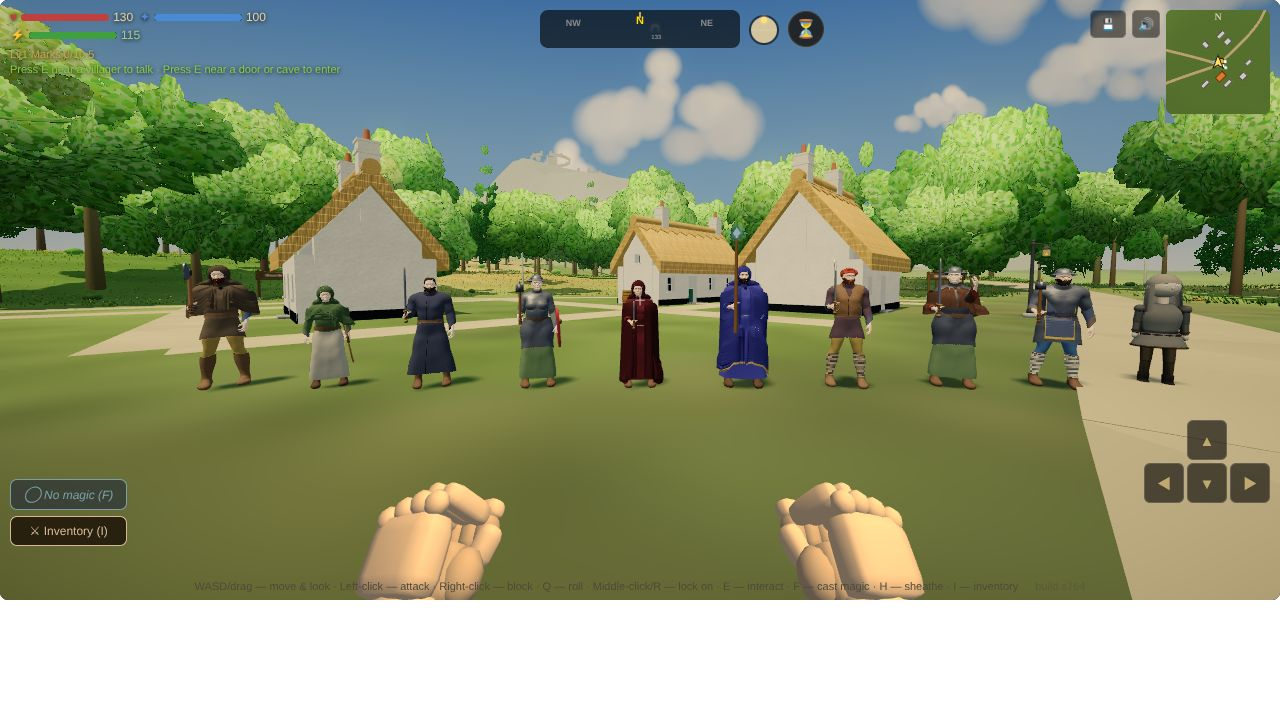
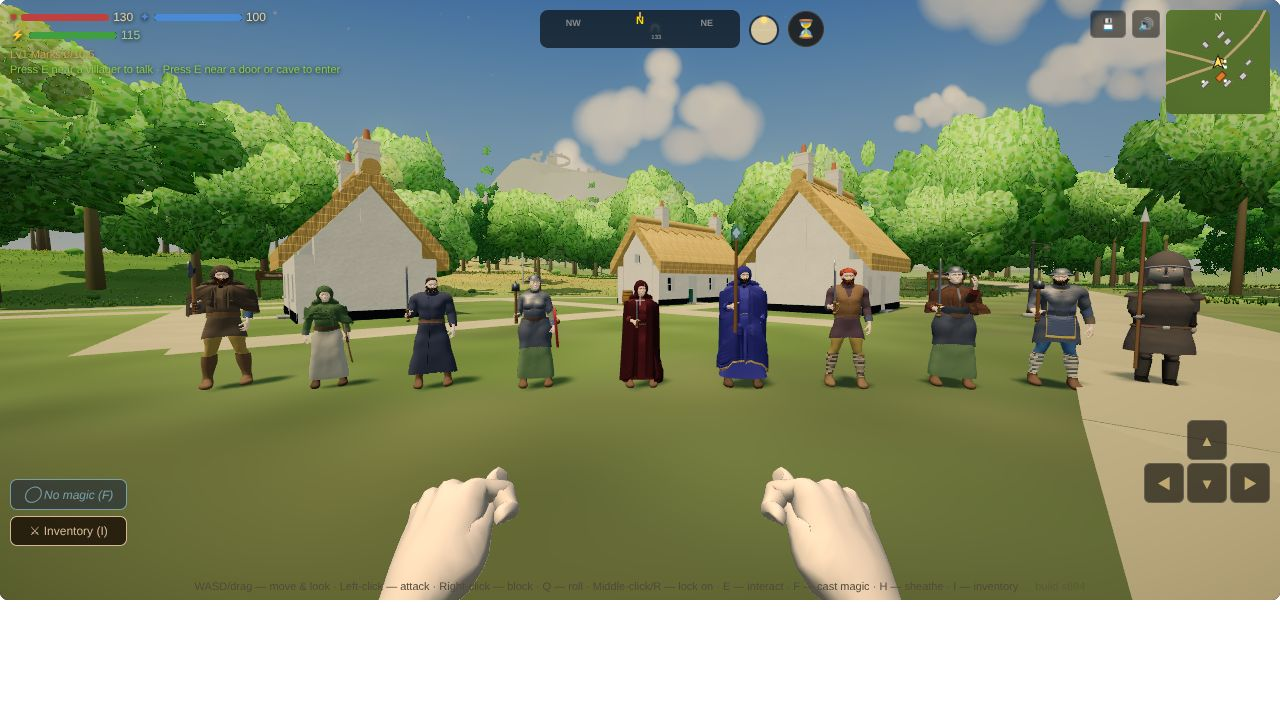
Bodies: Session 1400 — the Hollowed and the Ghoul on the builder's body (card F4)
Claude-Session: https://claude.ai/code/session_01SogU74veZ729UQgeMY9NfM

diff --git a/js/32-people.js b/js/32-people.js
@@ -1360,7 +1360,9 @@ function hbPrep(g,key){if(g.hbKey)return;g.hbKey=key;try{hbTint(g,hbGenome(g));}
 // and what each wears over the builder's own rolled clothes, from its FOE_DRESS colour (c): the weapon and shield stay the game's
 // kit, held by the driver's bones, so the builder's own spear, staff, crossbow, basket and shield are taken off every one
 const HB_FOE_NOT=/^(skel|dead|goblin|troll|gargoyle|golem|wraith)$/;
-function hbFoeOk(type,genome,g){if(genome)return !!g.hbKey;const dr=FOE_DRESS[type];return !!dr&&!Object.keys(dr).some(k=>dr[k]&&HB_FOE_NOT.test(k));}
+// S1400 — of the risen dead, the Hollowed and the Ghoul wear the builder's body (its skin's rot, S1399); the Ash Wight and the ghosts not yet
+const HB_FOE_DEAD=/^(Hollowed|Ghoul)$/;
+function hbFoeOk(type,genome,g){if(genome)return !!g.hbKey;const dr=FOE_DRESS[type];return !!dr&&!Object.keys(dr).some(k=>dr[k]&&HB_FOE_NOT.test(k)&&!(k==='dead'&&HB_FOE_DEAD.test(type)));}
 const HB_FOE_DRESS={
   'Bandit':        c=>({cloak:c.map(v=>v*.8),cape:true,hood:'up'}),
   'Bandit Archer': c=>({cloak:c.map(v=>v*.85),cape:true,hood:'up'}),
@@ -1379,6 +1381,9 @@ const HB_FOE_DRESS={
   // S1389 — the Marsh Hag (S216: the fen's witch, an old woman in bog rags, hooded, a crooked staff): a robe in her bog green under a
   // long cloak of peat brown, its hood up, a cord at the waist, and the builder's own walking staff of hazel with its root's knob (S1085)
   // for her crooked staff, in the right fist where the driver's stick was
+  // S1400 — the risen dead (S173) in what they were buried in: a tunic and trousers of the grave's drab, barefoot, nothing over them
+  'Hollowed':      c=>({trousers:c.map(v=>v*.85),skirtColor:c.map(v=>v*.9),boots:null,belt:null,mantle:null,cuffs:null,cuffBand:null,cloak:null,hood:null,helm:null,brooch:null,necklace:null,earrings:null,circlet:null,tartan:null,tartanLine:null,bands:null,bandsMotif:null}),
+  'Ghoul':         c=>({trousers:c.map(v=>v*.8),skirtColor:c.map(v=>v*.85),boots:null,belt:null,mantle:null,cuffs:null,cuffBand:null,cloak:null,hood:null,helm:null,brooch:null,necklace:null,earrings:null,circlet:null,tartan:null,tartanLine:null,bands:null,bandsMotif:null}),
   'Marsh Hag':     c=>({robe:c,cord:[.3,.27,.18],cloak:[.2,.18,.12],tartan:null,tartanLine:null,cloakLen:.85,cape:false,hood:'up',cloakFur:null,cloakHem:null,brooch:null,mantle:null,belt:null,staff:[.3,.23,.15],staffMake:'hazel',necklace:null,earrings:null,circlet:null})};
 // S1379 — what a foe's genome is beyond its clothes: a kobold is an old man, short and thickset, with a long grey beard (the driver's
 // greybeard, S184); it is sized to its driver's stature like every foe, so its height slider only moves its proportions
@@ -1389,6 +1394,11 @@ const HB_FOE_BODY={
   // man, S1379's try), here a little past it; cropped to the scalp, ruddy, half of them with a short beard (the people's own roll)
   // S1389 — a hag is an old woman, thin and bony, her skin sallow toward the fen's green (the driver's lerp to 0x9aa078), her hair grey
   'Marsh Hag':     G=>{G.g=0;G.age=.95;G.height=0;G.prop=.2;G.weight=.3;G.muscle=.25;G.hair={style:'loose',len:.8};G.hairCol=[.54,.54,.47];G.skin=[.64,.6,.46];},
+  // S1400 — the risen dead: old and wasted, their hair greyed and their skin the driver's (a .75 lerp to FOE_DRESS's), rotted in the
+  // builder's skin (people.js's rot, S1399): the Hollowed at .7, the Ghoul, longer in the fen, at 1; the hair short and lank (the people's
+  // braids took a body to 113k triangles)
+  'Hollowed':      G=>{G.hair={style:'short',len:.3};G.age=.82;G.height=0;G.weight=.22;G.muscle=.3;G.hairCol=[.42,.41,.38];G.beard=Math.min(G.beard||0,.4);G.skin=[.56,.54,.49];G.rot=.7;},
+  'Ghoul':         G=>{G.hair={style:'short',len:.2};G.age=.8;G.height=0;G.weight=.15;G.muscle=.25;G.hairCol=[.36,.37,.33];G.beard=Math.min(G.beard||0,.3);G.skin=[.44,.5,.37];G.rot=1;},
   'Ogre':          G=>{G.g=1;G.age=.6;G.height=1;G.prop=.35;G.weight=1.35;G.muscle=0;G.hair={style:'short',len:0};G.hairCol=[.23,.16,.1];G.beard=G.beard>.8?.35:0;G.skin=[.74,.55,.42];}};
 // a foe's genome, at its first attach (its id is given after it is built, keyFoe): `foe:<id>`, the co-op rule's place and index; a
 // foe with no id yet (the inspector's) takes its type and its old genome's seed, which is the same each time it is built
@@ -1464,7 +1474,19 @@ function hbAttach(rig,P){const tA=performance.now();
   // S1224 — one already asleep when the body comes (it is built after the room, so a sleeper always is) is laid again by its own shape:
   // the builder's head is longer than the driver's, and laid by the driver's shape its head bone sat 6 cm past the mattress's end, in the headboard, under the driver's quilt
   if(rig.sleep&&rig.bed&&rig.root.parent)personLie(rig.root,rig.bed);
+  if(rig.eyeGlow)hbEyeGlow(rig);
   HBODY.ms+=performance.now()-tA;HBODY.n++;}
+// S1400 — the risen dead's burning eyes (S173) on the builder's body: the driver's lit eyes sit where the driver's eyes are, which the
+// builder's face does not share, so a copy is laid in the builder's head over its own eyeballs, a little in front of them, at the driver's
+// size in the world; it shows with the builder's body and the driver's with the driver (hbLevel)
+function hbEyeGlow(rig){const H=rig.hb,hd=H.P.byName.head,eyes=[];hd.children.forEach(o=>{if(o.isMesh&&o.geometry.type==='SphereGeometry')eyes.push(o);});if(eyes.length<2)return;
+  rig.root.updateMatrixWorld(true);const ws=new THREE.Vector3(),hs=new THREE.Vector3();rig.eyeGlow.getWorldScale(ws);hd.getWorldScale(hs);
+  const r=.008*ws.x/hs.x,fwd=new THREE.Vector3(0,0,1).applyQuaternion(rig.root.getWorldQuaternion(new THREE.Quaternion())),P=[],I=[];
+  for(const e of eyes.slice(0,2)){e.geometry.computeBoundingSphere();const b=e.geometry.boundingSphere,c=e.localToWorld(b.center.clone()),ew=new THREE.Vector3();e.getWorldScale(ew);
+    hd.worldToLocal(c.addScaledVector(fwd,b.radius*ew.x*.55));
+    const g1=new THREE.SphereGeometry(r,6,4),a=g1.attributes.position.array,ix=g1.index.array,n0=P.length/3;for(let i=0;i<a.length;i+=3)P.push(a[i]+c.x,a[i+1]+c.y,a[i+2]+c.z);for(let i=0;i<ix.length;i++)I.push(ix[i]+n0);g1.dispose();}
+  const eg=new THREE.BufferGeometry();eg.setAttribute('position',new THREE.Float32BufferAttribute(P,3));eg.setIndex(I);
+  const m=new THREE.Mesh(eg,rig.eyeGlow.material);m.name='eyeGlow';m.frustumCulled=false;hd.add(m);H.eyeGlow=m;}
 // S1259 (F10) — what people.js hangs on the person's root and not on a bone (the cloak, its hood laid down, the brooch and its knot)
 // stood where the body stood: a dead bandit fell out of his cloak and left it upright on the road, searchable. Each is skinned whole to
 // the builder's root bone (the pelvis, which takes the driver's hips), as hbMerge already bakes it for the middle level, so the cloak
@@ -1522,7 +1544,7 @@ function hbPose(rig){const H=rig.hb,B=rig.B,map=H.map;
 // material for a yellow clone, 74-strikes.js) as a strong gold; the materials the kill clones are the ones on the meshes now
 function hbGlow(rig){const H=rig.hb,m=rig.mesh.material;let em=m&&m.emissive?m.emissive.getHex():0;if(m!==H.drv&&m&&m.color&&m.color.getHex()===0xffdd44)em=0xb08010;
   if(em===H.em)return;H.em=em;for(const o of H.mid?[...H.full,H.mid]:H.full)for(const x of Array.isArray(o.material)?o.material:[o.material])if(x.emissive)x.emissive.setHex(em);} // the body's own: what it holds keeps the kit's shared materials
-function hbLevel(rig,L){const H=rig.hb;if(H.L===L)return;H.L=L;if(L===2)hbGive(rig);if(L===1)hbMid(rig);H.root.visible=L<2;rig.mesh.visible=L===2;for(const m of H.full)m.visible=L===0;if(H.mid)H.mid.visible=L===1;}
+function hbLevel(rig,L){const H=rig.hb;if(H.L===L)return;H.L=L;if(H.eyeGlow&&rig.eyeGlow)rig.eyeGlow.visible=L===2;if(L===2)hbGive(rig);if(L===1)hbMid(rig);H.root.visible=L<2;rig.mesh.visible=L===2;for(const m of H.full)m.visible=L===0;if(H.mid)H.mid.visible=L===1;}
 // the middle level, baked now if the body was attached without it (rig.hbLazy); null if the bake fails
 function hbMid(rig){const H=rig.hb;if(!H)return null;if(H.mid||H.midFail)return H.mid;const t=performance.now();
   try{const m=hbMerge(H.P,H.cards);m.geometry.boundingSphere=H.sph.clone();m.visible=H.L===1;if(rig.foe)m.material=HB_MID_MAT.clone();

diff --git a/docs/backlog.md b/docs/backlog.md
@@ -519,7 +519,7 @@ Michael marked all 96 images of the intake on the review page: 63 KEEP and 33 NO
 
 ### L4. The gates' foes (with C's gates by school)
 - **Each school's hall and antibodies** (look and systems; OG-018, which draws §9a exactly): Tine forge-hot, Uisce drowned, Cloch fallen masonry, Scáth violet dark, Solas white light, Gaoth open to the sky; occupied gates as goblin warrens. New foes: Magma Slime, Drowned Skeleton, Frost Thing (needs a folk shape under the ice; two plans in the kit, Session 958, `frostshard` and `frostfolk`; Michael's B on DECISION #362, the folk shape, `frostfolk`; ~~its face~~ — done, Session 968: the skeleton's skull inside his head, seen through ice thinned to 0.4 over the face, `faceClear` in the kit; `creatures-frostfolk-head.jpg`, `-front.jpg`; owed: the game, after F4), Wisp and Winged Thing, which fill Gaoth, the school with no foes yet. **The Winged Thing is a plan in the kit, Session 955** (bodies builder; `creatures.js` `wingedthing`, `creatures-wingedthing.jpg`, `-fly.jpg`): a griffin of a big cat's body, an eagle's head and beak, feathered wings and a feathered tail fan, pale storm-grey; ~~eagle's talons for its forefeet~~ — done, Session 960 (`talonFore`, a hind toe on `claws.back`; `creatures-wingedthing-front.jpg`); ~~hooked, not straight~~ — done, Session 970 (`claws.hook` in the kit: each claw arches onto its point, its tip where a straight one's is; `creatures-wingedthing-foot.jpg`, from the bestiary's new `cam=foot`); ~~its folded wing's feathers fanned out sideways from the wrist~~ — done, Session 974 (a quill bone for every flight feather in the kit, turned back along the body when the wing folds, on all nine feathered fliers; `creatures-wingedthing-folded.jpg`, `creatures-craghawk-folded.jpg`, `creatures-duskeagle-folded.jpg`); ~~the folded wing a thin dark line from the side~~ — done, Session 983 (each quill also rolled about its own line so the card leans down over the flank, faces 39 degrees from facing out on average where they were 84; `creatures-wingedthing.jpg` against `creatures-wingedthing-side-before.jpg`); ~~the Dusk Eagle's ragged primaries closing like a whole wing~~ — done, Session 984 (`feathers.ragged` fans the few primaries down the flank when folded, 3.2 degrees between neighbours where the hawks' stack at 0.6; `creatures-duskeagle-perched.jpg`, `creatures-duskeagle-folded.jpg`); owed: the game (after F4). **OG-018's gargoyles are plans, Session 956** (`gargoyle` for Cloch, moss-stained stone, and `gaothgargoyle`, weathered pale, wings a quarter wider; `GARGOYLES`; `creatures-gargoyle.jpg`, `-front.jpg`, `-fly.jpg`, `creatures-gaothgargoyle.jpg`): the goblin's crouched frame in stone, horns, a tail, a stone ridge, bat wings folded up behind the shoulders by `wingRest`; the wings' stone skin drew near black, ~~fixed~~ — done, Session 959 (`wingLight`: a skin wing gives back a share of its colour as light through it; the dragon's too); owed: the game's dormant Gargoyle replaced (after F4).
-- **The classic five, dark** (look builder; OG-041): a skeleton with a notched sword and round shield, a crouched goblin with spear and hide shield, a cave troll whose hide grows moss (a Cloch troll), a slime with bones and rubble inside, a pale giant spider with egg sacs. **The cave troll is a plan in the kit, Session 926** (bodies builder; `creatures.js` `troll`, `creatures-troll.jpg`): a hunched biped, 2.2 m to the crown, moss on its stone-grey hide; OG-018's Tine and Uisce trolls as recolours and a brow on the head, Session 927 (`TROLLS`, `creatures-trolls.jpg`); ~~its lashed-on armour scraps~~ — done, Session 945 (`straps` again: iron plates on the chest and shoulder and a rawhide sheet on the back under three leather lashings, on the OG-041 troll only; `creatures-troll-front.jpg`, `-back.jpg`). **The slime is a plan, Session 928** (`slime`, with OG-018's `magmaslime` for Tine; `SLIMES`): clear, bones and rubble inside; ~~the holes through it~~ — done, Session 954 (`holes` in the kit: three tunnels cut through the flesh from flank to flank, both slimes on a 6 cm grid; `creatures-slime.jpg`, `creatures-magmaslime.jpg`). **The giant spider's thorns and egg sacs, Session 932** (`spider`: thorns up every leg segment, a clutch of silk sacs under the abdomen's tip; `creatures-spider.jpg`, `creatures-spider-back.jpg`). **The goblin is a plan, Session 933** (`goblin`, `GOBLINS`; `creatures-goblin.jpg`, `creatures-goblin-front.jpg`, `creatures-classic.jpg`): the troll's frame at half its height, long ears, a spear and a hide shield (`gear` in the kit, the first gear on a creature); ~~its scrap-leather harness~~ — done, Session 944 (`straps` in the kit: a belt, a sash and a hide shoulder scrap laid 7 mm on the grown skin, each point on the skin's own weights; `creatures-goblin-front.jpg`, `-back.jpg`). **The skeleton is a plan, Session 934** (`skeleton`, `SKELETONS`; `creatures-skeleton.jpg`, `creatures-skeleton-front.jpg`): the kit's first bare body (`bare`: its capsules drawn as bones), ribs and a pelvis, a notched sword and a round wooden shield; ~~its hip rags (cloth on a creature)~~ — done, Session 943 (`rags` in the kit: torn strips on a cord, passing to the thigh bones down their length; `creatures-skeleton-front.jpg`, `-back.jpg`); ~~a truer skull~~ — done, Session 942 (a modelled skull and mandible, 20 teeth, the drowned skeleton's eyes lit in the sockets; `creatures-skeleton-skull*.jpg`); ~~OG-018's drowned skeleton (Uisce)~~ — done, Session 935 (`drownedskeleton`, weed-hung; `creatures-drownedskeleton.jpg`). So all five of OG-041 are plans (`creatures-classic.jpg`). ~~The giant spider in the game~~ — done, Session 1319 (bodies builder; the Spider foe on the kit's `spider` behind the new look, at twice the kit's cell, its eight feet set where its old rig's are; `f4spiders`, `docs/prototypes/f4/f4-spiders.jpg`); ~~the Sand Scorpion (`dunescorpion`)~~ — done, Session 1325 (`f4spiders`, `docs/prototypes/f4/f4-scorpion.jpg`); the Bog Crawler is a plan in the kit, Session 1336 (`bogcrawler`, `CRAWLERS`: a flat oval water bug on four walking legs, the raptorial forelegs as arms with a hooked tibia, `hook` in the kit's arms; `creatures-bogcrawler-*.jpg`); ~~the Bog Crawler in the game~~ — done, Session 1337 (behind the new look on the spider's driver, its forelegs folding with the driver's fang and hook bones, `hcBug`; `f4spiders`, `docs/prototypes/f4/f4-bogcrawler.jpg`): the whole spider family wears the kit. ~~The Faolchú in the game~~ — done, Session 1342 (the boss and its lesser kin on the kit's own `faolchu`, two pairs of arms now, over the Dire Wolf's rig without its hunch, the seam in the phase's colour, cell 0.03: 16,112 triangles, 146 ms; `faolchu`, `docs/prototypes/f4/f4-faolchu.jpg`). ~~The dragon in the game~~ — done, Session 1348 (`f4beasts`). ~~The Skeleton in the game~~ — done, Session 1356 (bodies builder; the kit's `skeleton` on the people's 17-bone driver behind the new look, its first biped: `HC_PMAP`, sized by its stature, the kit's notched sword or a spear by what it was dealt and no shield, its sockets lit; 23 bones, 4,224 triangles, ~30 ms; `f4bones`, `docs/prototypes/f4/f4-skeletons.jpg`). ~~The goblins in the game~~ — done, Session 1364 (the Goblin and the Goblin Slinger on the kit's `goblin`, green, over the people's driver with its own hunch taken off and the ankles held to it, the game's rusted knife or empty hands; cell 0.05: 7,440–7,772 triangles, ~53 ms, baked at the middle level; `f4goblins`, `docs/prototypes/f4/f4-goblins.jpg`). ~~The trolls in the game~~ — done, Session 1378 (the Cave, Forest and Frost Troll on the kit's `troll`, in their kinds' hides, the driver's eye colour, a maul in the kit (`gear` kind `maul`, the troll plan's own), sized by the legs with the ankles held; 23 bones, 12,568–12,916 triangles, ~53 ms, baked at the middle level; `f4trolls`, `docs/prototypes/f4/f4-trolls.jpg`). ~~The Golem in the game~~ — done, Session 1371 (the kit's `golem` on the people's driver, sized by its stature with its ankles held to the driver's, its eyes rune-lit and the driver's rune slits gone with its body; 22 bones, 5,288–5,572 triangles, ~30 ms, baked at the middle level; `f4golems`, `docs/prototypes/f4/f4-golems.jpg`). ~~The Gargoyle in the game~~ — done, Session 1375 (the kit's `gargoyle` on the people's driver behind the new look, sized by its legs with its ankles held at the rest offset, its stone wings folded asleep at the plan's rest and open and beating awake from the driver's fold, `hcGarg`, its tail swaying, its eyes the driver's ember set forward on the muzzle; 58 bones, 7,116–7,276 triangles, ~55 ms, baked at the middle level; `f4gargoyles`, `docs/prototypes/f4/f4-gargoyles.jpg`). ~~The kobolds in the game~~ — done, Session 1379 (the Kobold and the Kobold Thief on the people builder's body behind the new look, not the creature kit's: Michael's B on Session 178 is a small old man, so `HB_FOE_BODY` ages the rolled genome, greys and lengthens its beard and stands it short and thickset, and `HB_FOE_DRESS` hoods and capes it; the weapon kit's new `mattock` in its fist on both looks; 163 bones, 53,800–55,500 triangles; `f4kobolds`, `docs/prototypes/f4/f4-kobolds.jpg`). Still on the old people's body: the ogre, the risen dead and the wraiths, and the hag; the kit has no plan for them yet.
+- **The classic five, dark** (look builder; OG-041): a skeleton with a notched sword and round shield, a crouched goblin with spear and hide shield, a cave troll whose hide grows moss (a Cloch troll), a slime with bones and rubble inside, a pale giant spider with egg sacs. **The cave troll is a plan in the kit, Session 926** (bodies builder; `creatures.js` `troll`, `creatures-troll.jpg`): a hunched biped, 2.2 m to the crown, moss on its stone-grey hide; OG-018's Tine and Uisce trolls as recolours and a brow on the head, Session 927 (`TROLLS`, `creatures-trolls.jpg`); ~~its lashed-on armour scraps~~ — done, Session 945 (`straps` again: iron plates on the chest and shoulder and a rawhide sheet on the back under three leather lashings, on the OG-041 troll only; `creatures-troll-front.jpg`, `-back.jpg`). **The slime is a plan, Session 928** (`slime`, with OG-018's `magmaslime` for Tine; `SLIMES`): clear, bones and rubble inside; ~~the holes through it~~ — done, Session 954 (`holes` in the kit: three tunnels cut through the flesh from flank to flank, both slimes on a 6 cm grid; `creatures-slime.jpg`, `creatures-magmaslime.jpg`). **The giant spider's thorns and egg sacs, Session 932** (`spider`: thorns up every leg segment, a clutch of silk sacs under the abdomen's tip; `creatures-spider.jpg`, `creatures-spider-back.jpg`). **The goblin is a plan, Session 933** (`goblin`, `GOBLINS`; `creatures-goblin.jpg`, `creatures-goblin-front.jpg`, `creatures-classic.jpg`): the troll's frame at half its height, long ears, a spear and a hide shield (`gear` in the kit, the first gear on a creature); ~~its scrap-leather harness~~ — done, Session 944 (`straps` in the kit: a belt, a sash and a hide shoulder scrap laid 7 mm on the grown skin, each point on the skin's own weights; `creatures-goblin-front.jpg`, `-back.jpg`). **The skeleton is a plan, Session 934** (`skeleton`, `SKELETONS`; `creatures-skeleton.jpg`, `creatures-skeleton-front.jpg`): the kit's first bare body (`bare`: its capsules drawn as bones), ribs and a pelvis, a notched sword and a round wooden shield; ~~its hip rags (cloth on a creature)~~ — done, Session 943 (`rags` in the kit: torn strips on a cord, passing to the thigh bones down their length; `creatures-skeleton-front.jpg`, `-back.jpg`); ~~a truer skull~~ — done, Session 942 (a modelled skull and mandible, 20 teeth, the drowned skeleton's eyes lit in the sockets; `creatures-skeleton-skull*.jpg`); ~~OG-018's drowned skeleton (Uisce)~~ — done, Session 935 (`drownedskeleton`, weed-hung; `creatures-drownedskeleton.jpg`). So all five of OG-041 are plans (`creatures-classic.jpg`). ~~The giant spider in the game~~ — done, Session 1319 (bodies builder; the Spider foe on the kit's `spider` behind the new look, at twice the kit's cell, its eight feet set where its old rig's are; `f4spiders`, `docs/prototypes/f4/f4-spiders.jpg`); ~~the Sand Scorpion (`dunescorpion`)~~ — done, Session 1325 (`f4spiders`, `docs/prototypes/f4/f4-scorpion.jpg`); the Bog Crawler is a plan in the kit, Session 1336 (`bogcrawler`, `CRAWLERS`: a flat oval water bug on four walking legs, the raptorial forelegs as arms with a hooked tibia, `hook` in the kit's arms; `creatures-bogcrawler-*.jpg`); ~~the Bog Crawler in the game~~ — done, Session 1337 (behind the new look on the spider's driver, its forelegs folding with the driver's fang and hook bones, `hcBug`; `f4spiders`, `docs/prototypes/f4/f4-bogcrawler.jpg`): the whole spider family wears the kit. ~~The Faolchú in the game~~ — done, Session 1342 (the boss and its lesser kin on the kit's own `faolchu`, two pairs of arms now, over the Dire Wolf's rig without its hunch, the seam in the phase's colour, cell 0.03: 16,112 triangles, 146 ms; `faolchu`, `docs/prototypes/f4/f4-faolchu.jpg`). ~~The dragon in the game~~ — done, Session 1348 (`f4beasts`). ~~The Skeleton in the game~~ — done, Session 1356 (bodies builder; the kit's `skeleton` on the people's 17-bone driver behind the new look, its first biped: `HC_PMAP`, sized by its stature, the kit's notched sword or a spear by what it was dealt and no shield, its sockets lit; 23 bones, 4,224 triangles, ~30 ms; `f4bones`, `docs/prototypes/f4/f4-skeletons.jpg`). ~~The goblins in the game~~ — done, Session 1364 (the Goblin and the Goblin Slinger on the kit's `goblin`, green, over the people's driver with its own hunch taken off and the ankles held to it, the game's rusted knife or empty hands; cell 0.05: 7,440–7,772 triangles, ~53 ms, baked at the middle level; `f4goblins`, `docs/prototypes/f4/f4-goblins.jpg`). ~~The trolls in the game~~ — done, Session 1378 (the Cave, Forest and Frost Troll on the kit's `troll`, in their kinds' hides, the driver's eye colour, a maul in the kit (`gear` kind `maul`, the troll plan's own), sized by the legs with the ankles held; 23 bones, 12,568–12,916 triangles, ~53 ms, baked at the middle level; `f4trolls`, `docs/prototypes/f4/f4-trolls.jpg`). ~~The Golem in the game~~ — done, Session 1371 (the kit's `golem` on the people's driver, sized by its stature with its ankles held to the driver's, its eyes rune-lit and the driver's rune slits gone with its body; 22 bones, 5,288–5,572 triangles, ~30 ms, baked at the middle level; `f4golems`, `docs/prototypes/f4/f4-golems.jpg`). ~~The Gargoyle in the game~~ — done, Session 1375 (the kit's `gargoyle` on the people's driver behind the new look, sized by its legs with its ankles held at the rest offset, its stone wings folded asleep at the plan's rest and open and beating awake from the driver's fold, `hcGarg`, its tail swaying, its eyes the driver's ember set forward on the muzzle; 58 bones, 7,116–7,276 triangles, ~55 ms, baked at the middle level; `f4gargoyles`, `docs/prototypes/f4/f4-gargoyles.jpg`). ~~The kobolds in the game~~ — done, Session 1379 (the Kobold and the Kobold Thief on the people builder's body behind the new look, not the creature kit's: Michael's B on Session 178 is a small old man, so `HB_FOE_BODY` ages the rolled genome, greys and lengthens its beard and stands it short and thickset, and `HB_FOE_DRESS` hoods and capes it; the weapon kit's new `mattock` in its fist on both looks; 163 bones, 53,800–55,500 triangles; `f4kobolds`, `docs/prototypes/f4/f4-kobolds.jpg`). ~~The Ogre~~ (Session 1386, `f4ogres`) and ~~the Marsh Hag~~ (Session 1389, `f4hags`) on the people builder's body. ~~The Hollowed and the Ghoul in the game~~ — done, Session 1400 (the builder's body behind the new look, its skin rotted by people.js's `rot` (Session 1399) at .7 and 1, barefoot in the grave's drab, the driver's lit eyes laid over the builder's own (`hbEyeGlow`); 58,228–62,187 triangles; `f4dead`, `docs/prototypes/f4/f4-dead.jpg`). Still on the old people's body: the Ash Wight and the ghosts (the Wraith, the Phantom).
 - **Failing gates change their foes** (look builder; OG-073): one rig per foe with extra limbs and broken anatomy for a failing gate, glow only at the seams. The catastrophic column is a boss tier below the dragon (Michael's 8 B; canon §5). **Solas's failing skeleton is a plan in the kit, Session 1168** (bodies builder; `creatures.js` `failingskeleton`, `FAILING`, `creatures-failingskeleton*.jpg`, `creatures-failing-solas.jpg`): the steady skeleton with two more pairs of arms, bone spurs down the back, three more ribs, and its bones cracked with only the cracks lit white-gold; ~~Gaoth's failing gargoyle~~ — done, Session 1169 (`failinggargoyle`: wings half again the Cloch gargoyle's, a second pair of clawed arms from the shoulder blades, the stone's cracks lit storm blue-white; `creatures-failinggargoyle-*.jpg`); ~~Uisce's failing slime~~ — done, Session 1174 (`failingslime`: a third bigger, pale blue-white, three crests rising off its back and rolling each on its own beat, more of the drowned inside, the veins lit sea-blue; the kit's new `crests` part; `creatures-failingslime-*.jpg`); ~~the steady golem~~ — done, Session 1175 (`golem`, `GOLEMS`: OG-018's mossy Cloch golem, the game's dressed stone, every bone a hewn block, the kit's new `bare.blocks`; `creatures-golem-*.jpg`); ~~Cloch's failing golem~~ — done, Session 1176 (`failinggolem`: doubled into a pair on one rig, two heads and two pairs of arms on a widened chest, the blocks cracked and the cracks lit Cloch's violet; `P.head` takes a `name`, `off` and `yaw`; `creatures-failinggolem-*.jpg`); ~~the steady wraith~~ — done, Session 1177 (`wraith`, `WRAITHS`: OG-018's Scáth wraith as the game's since S555, a hollow hood with two violet slits, no legs, a robe floating clear of the ground torn into tongues, long arms with bone claws; the kit's `hover` gait, `hood`, slit eyes; `creatures-wraith-*.jpg`; ~~its dark oval seen from behind~~ — done, Session 1187: the hood's black cup showed through the clear cowl, now drawn only while the eye is ahead of its opening, `hoodFacing`, `creatures-wraith-back.jpg`); ~~Scáth's failing wraith~~ — done, Session 1178 (`failingwraith`: a second pair of clawed arms from the robe's middle, a second ring of torn cloth and the hem's tongues longer, the seams lit Scáth's violet; `creatures-failingwraith-*.jpg`); ~~the steady fire elemental~~ — done, Session 1185 (`fireelemental`, `ELEMENTALS`: OG-018's Tine elemental as the game's since S222, no legs, a dark slag crust lit only in its cracks over a column of flame, 14 tongues grown from the body with a crown of 4 on the head, licking at rest, arms of flame with lit claws; the kit's crests rooted anywhere, `glow.tones`, `flicker`; `creatures-fireelemental-*.jpg`); ~~Tine's failing form~~ — done, Session 1186 (`failingfireelemental`: the flame clearer and hotter, and through it a skeleton of dark hewn stone, blocks on the spine and neck, stone ribs and hip, a stone skull with its eyes lit, a shaft down every arm; a second pair of flaming arms off the ribs, stone spurs breaking out at the shoulders and back; the kit's `frame`; `creatures-failingfireelemental-*.jpg`), so all six of OG-073's failing forms are plans; ~~a second pair of wings for Gaoth's~~ — done, Session 1191 (`P.wings` takes a `pair`, named into its bones, with its own `rest` and beat `phase`; `failinggargoyle`'s second pair lower on the back, three-fingered, beating out of step; `creatures-failinggargoyle-*.jpg`); owed: the game (after F4).
 - **Corrupted animals by school** (look builder; OG-088): a shape change, never a recolour: a frost bear (Uisce), a crystal-spined boar and a stone troll (Cloch), a stag whose antlers breathe mist (Scáth), a dusk eagle (Gaoth). The gate-born row as silhouettes for gate interiors. Drop the sheet's *mana* and *original inhabitants* lines. **Four are plans in the kit, Session 919** (bodies builder; `creatures.js` `CORRUPTED`, `creatures-corrupted.jpg`): the frost wraith bear (Uisce), the blight boar (Cloch), the stag of shadows (Scáth), the dusk eagle (Gaoth); the frost bear's crown moved to its brow, Session 925; the stone troll (Cloch), Session 926 (`stonetroll`, from the new `troll`); ~~the stag's mist~~ — done, Session 969 (`antlers.mist` in the kit: soft violet puffs rising from every tine, looped on the stride; `creatures-shadowstag.jpg`, `-front.jpg`); ~~the mist rising in the head's frame~~ — done, Session 975 (it rises in the body's up and drifts along the body's back, whatever the head does); owed: the game (after F4).
 

diff --git a/docs/devlog/1400.md b/docs/devlog/1400.md
@@ -1,0 +1,35 @@
+## v80 — Session 1400 — the Hollowed and the Ghoul on the builder's body (card F4)
+Session 1399's rot, in the game. The risen dead (S173) were kept on the driver's 17-bone body by `HB_FOE_NOT`'s `dead`; the Hollowed
+and the Ghoul now wear the builder's 163-bone body behind the new look, as the hag (S1389) and the other human foes do. The Ash Wight
+(helmed and armoured, with a spear) and the ghosts (the Wraith, the Phantom: see-through, gliding) stay on the driver for now.
+
+`js/32-people.js`:
+- `HB_FOE_DEAD` names the two; `hbFoeOk` lets their `dead` through.
+- `HB_FOE_BODY`: old (.82, .8) and wasted (weight .22 and .15, muscle .3 and .25), hair greyed and cut short and lank, the skin the
+  driver's own (its .75 lerp to FOE_DRESS's colour: [.56, .54, .49] and the fen's [.44, .5, .37]), rotted at .7 and 1. The people's
+  braids took the Ghoul to 113k triangles; short hair brings them to 58k and 62k, as the other foes.
+- `HB_FOE_DRESS`: what they were buried in, a tunic, trousers (or a woman's long skirt) in the grave's drab, barefoot, with nothing
+  over it: no belt, cloak, hood, mantle, cuffs or jewellery from the people's roll.
+- `hbEyeGlow(rig)`, at the end of `hbAttach` for a rig with lit eyes: the driver's burning eyes (S173's, on the driver's head bone)
+  sit where the driver's eyes are, which the builder's face does not share, so a copy is laid in the builder's head bone over its own
+  eyeballs, 0.55 of an eyeball's radius in front of them, at the driver's size in the world and in the driver's material (one
+  colour, so the parry's and the kill's swaps carry). `hbLevel` shows the driver's with the driver's body (far) and hides it while
+  the builder's shows.
+
+`tests/f4dead.test.mjs` (new): a Hollowed, a Bandit and a Ghoul in a row; the builder's body on 163 bones keyed by the foe's id and under
+70k triangles, the rot (.7, 1) in the skin's shader, old, wasted, barefoot and drab with nothing over it; the Bandit alive (no rot, no lit
+eyes); the lit eyes within 2 cm of the builder's eyeballs and in front of them, and which body's eyes show near and far; the bones move
+with the stride; killed, it falls with its driver. Pictures: `docs/prototypes/f4/f4-dead.jpg` and `f4-dead-near.jpg`.
+
+### Verified (headless Chromium)
+- `f4dead` 1/1: 58,228 and 62,187 triangles; the lit eyes 7.5–8.1 mm from the eyeballs' centres and 7.4–8.1 mm in front; the bones moved
+  0.683 over the stride; killed, the head 0.27 m off the ground, 0.2 m from the driver's.
+- `f4hags` and `f4bones` 1/1. `f4foes` went red on its own control: its tenth foe was a Hollowed, there to show a foe kept off the
+  builder's body, which it no longer is. The control is now an Ash Wight, still kept off it; 1/1, its pictures retaken with the wight.
+- The suite's first runs found two faults of its own: the walk read the bones before their world matrices were refreshed (the hag's
+  suite got that from her staff's hold), and the eye check left the body at level −1 (read before any level was set).
+
+### Needs eyes
+- The rot's mottling is faint at a distance (Session 1399's note); from 6 m the dead read as grey-green people with lit eyes.
+- They keep their living faces' shape; sunken cheeks would be morphs (people.js).
+- A woman of the Hollowed wears a long drab skirt, as a woman of the people's roll does.
